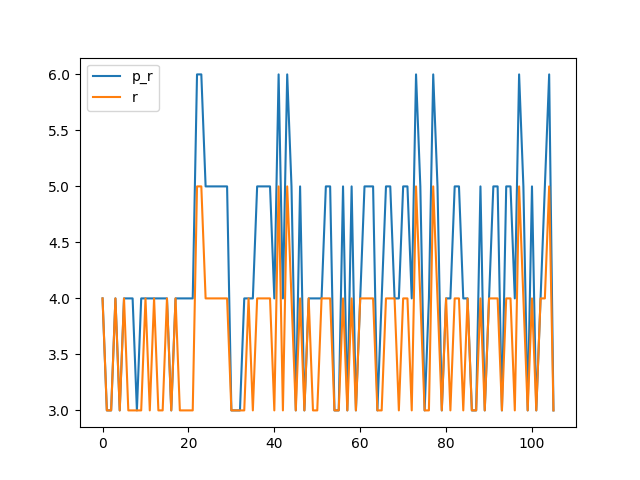
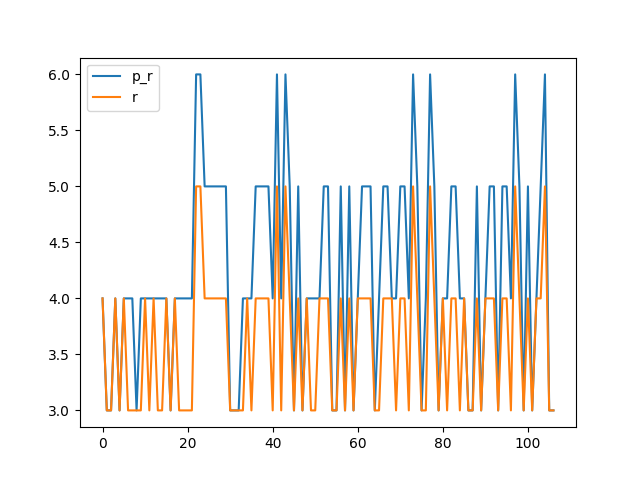
0x006A

diff --git a/benchmark.md b/benchmark.md
@@ -210,16 +210,18 @@ Synthesising 0x0068 pexact:406 r=6 exact:448 r=5
 
 Synthesising 0x0069 pexact:256 r=3 exact:256 r=3
 
+Synthesising 0x006A pexact:224 r=3 exact:224 r=3
+
 ```mermaid
 xychart-beta
     title "Comparison powertwoexact twoexact"
-    x-axis [0, 1, 2, 3, 4, 5, 6, 7, 8, 9, 10, 11, 12, 13, 14, 15, 16, 17, 18, 19, 20, 21, 22, 23, 24, 25, 26, 27, 28, 29, 30, 31, 32, 33, 34, 35, 36, 37, 38, 39, 40, 41, 42, 43, 44, 45, 46, 47, 48, 49, 50, 51, 52, 53, 54, 55, 56, 57, 58, 59, 60, 61, 62, 63, 64, 65, 66, 67, 68, 69, 70, 71, 72, 73, 74, 75, 76, 77, 78, 79, 80, 81, 82, 83, 84, 85, 86, 87, 88, 89, 90, 91, 92, 93, 94, 95, 96, 97, 98, 99, 100, 101, 102, 103, 104, 105]
+    x-axis [0, 1, 2, 3, 4, 5, 6, 7, 8, 9, 10, 11, 12, 13, 14, 15, 16, 17, 18, 19, 20, 21, 22, 23, 24, 25, 26, 27, 28, 29, 30, 31, 32, 33, 34, 35, 36, 37, 38, 39, 40, 41, 42, 43, 44, 45, 46, 47, 48, 49, 50, 51, 52, 53, 54, 55, 56, 57, 58, 59, 60, 61, 62, 63, 64, 65, 66, 67, 68, 69, 70, 71, 72, 73, 74, 75, 76, 77, 78, 79, 80, 81, 82, 83, 84, 85, 86, 87, 88, 89, 90, 91, 92, 93, 94, 95, 96, 97, 98, 99, 100, 101, 102, 103, 104, 105, 106]
     y-axis "Switching Activity" 0-->472
-    line [96, 152, 152, 182, 152, 182, 208, 182, 152, 208, 182, 182, 182, 182, 182, 182, 152, 182, 208, 182, 208, 182, 406, 400, 336, 310, 310, 304, 310, 304, 224, 216, 152, 208, 182, 182, 336, 310, 310, 304, 208, 406, 182, 400, 310, 224, 304, 216, 182, 182, 182, 182, 310, 304, 224, 216, 310, 224, 304, 216, 280, 326, 326, 238, 152, 208, 336, 310, 182, 182, 310, 304, 208, 406, 310, 224, 182, 400, 304, 216, 182, 182, 310, 304, 182, 182, 224, 216, 310, 224, 280, 326, 304, 216, 326, 238, 208, 406, 310, 224, 310, 224, 280, 326, 406, 256]
-    line [192, 152, 152, 312, 152, 352, 224, 192, 192, 224, 352, 216, 320, 216, 216, 352, 152, 326, 224, 216, 224, 192, 464, 448, 352, 344, 344, 320, 336, 352, 224, 216, 192, 224, 318, 192, 352, 344, 344, 312, 224, 448, 192, 440, 344, 224, 312, 216, 320, 216, 216, 280, 344, 312, 224, 216, 344, 224, 320, 216, 344, 336, 344, 288, 152, 224, 352, 336, 320, 192, 344, 320, 224, 472, 336, 224, 192, 448, 312, 216, 248, 192, 320, 352, 216, 192, 224, 216, 320, 224, 352, 344, 320, 216, 336, 272, 224, 472, 344, 224, 344, 224, 344, 336, 448, 256]
-    line [249.26415094339623, 249.26415094339623, 249.26415094339623, 249.26415094339623, 249.26415094339623, 249.26415094339623, 249.26415094339623, 249.26415094339623, 249.26415094339623, 249.26415094339623, 249.26415094339623, 249.26415094339623, 249.26415094339623, 249.26415094339623, 249.26415094339623, 249.26415094339623, 249.26415094339623, 249.26415094339623, 249.26415094339623, 249.26415094339623, 249.26415094339623, 249.26415094339623, 249.26415094339623, 249.26415094339623, 249.26415094339623, 249.26415094339623, 249.26415094339623, 249.26415094339623, 249.26415094339623, 249.26415094339623, 249.26415094339623, 249.26415094339623, 249.26415094339623, 249.26415094339623, 249.26415094339623, 249.26415094339623, 249.26415094339623, 249.26415094339623, 249.26415094339623, 249.26415094339623, 249.26415094339623, 249.26415094339623, 249.26415094339623, 249.26415094339623, 249.26415094339623, 249.26415094339623, 249.26415094339623, 249.26415094339623, 249.26415094339623, 249.26415094339623, 249.26415094339623, 249.26415094339623, 249.26415094339623, 249.26415094339623, 249.26415094339623, 249.26415094339623, 249.26415094339623, 249.26415094339623, 249.26415094339623, 249.26415094339623, 249.26415094339623, 249.26415094339623, 249.26415094339623, 249.26415094339623, 249.26415094339623, 249.26415094339623, 249.26415094339623, 249.26415094339623, 249.26415094339623, 249.26415094339623, 249.26415094339623, 249.26415094339623, 249.26415094339623, 249.26415094339623, 249.26415094339623, 249.26415094339623, 249.26415094339623, 249.26415094339623, 249.26415094339623, 249.26415094339623, 249.26415094339623, 249.26415094339623, 249.26415094339623, 249.26415094339623, 249.26415094339623, 249.26415094339623, 249.26415094339623, 249.26415094339623, 249.26415094339623, 249.26415094339623, 249.26415094339623, 249.26415094339623, 249.26415094339623, 249.26415094339623, 249.26415094339623, 249.26415094339623, 249.26415094339623, 249.26415094339623, 249.26415094339623, 249.26415094339623, 249.26415094339623, 249.26415094339623, 249.26415094339623, 249.26415094339623, 249.26415094339623, 249.26415094339623]
-    line [282.9811320754717, 282.9811320754717, 282.9811320754717, 282.9811320754717, 282.9811320754717, 282.9811320754717, 282.9811320754717, 282.9811320754717, 282.9811320754717, 282.9811320754717, 282.9811320754717, 282.9811320754717, 282.9811320754717, 282.9811320754717, 282.9811320754717, 282.9811320754717, 282.9811320754717, 282.9811320754717, 282.9811320754717, 282.9811320754717, 282.9811320754717, 282.9811320754717, 282.9811320754717, 282.9811320754717, 282.9811320754717, 282.9811320754717, 282.9811320754717, 282.9811320754717, 282.9811320754717, 282.9811320754717, 282.9811320754717, 282.9811320754717, 282.9811320754717, 282.9811320754717, 282.9811320754717, 282.9811320754717, 282.9811320754717, 282.9811320754717, 282.9811320754717, 282.9811320754717, 282.9811320754717, 282.9811320754717, 282.9811320754717, 282.9811320754717, 282.9811320754717, 282.9811320754717, 282.9811320754717, 282.9811320754717, 282.9811320754717, 282.9811320754717, 282.9811320754717, 282.9811320754717, 282.9811320754717, 282.9811320754717, 282.9811320754717, 282.9811320754717, 282.9811320754717, 282.9811320754717, 282.9811320754717, 282.9811320754717, 282.9811320754717, 282.9811320754717, 282.9811320754717, 282.9811320754717, 282.9811320754717, 282.9811320754717, 282.9811320754717, 282.9811320754717, 282.9811320754717, 282.9811320754717, 282.9811320754717, 282.9811320754717, 282.9811320754717, 282.9811320754717, 282.9811320754717, 282.9811320754717, 282.9811320754717, 282.9811320754717, 282.9811320754717, 282.9811320754717, 282.9811320754717, 282.9811320754717, 282.9811320754717, 282.9811320754717, 282.9811320754717, 282.9811320754717, 282.9811320754717, 282.9811320754717, 282.9811320754717, 282.9811320754717, 282.9811320754717, 282.9811320754717, 282.9811320754717, 282.9811320754717, 282.9811320754717, 282.9811320754717, 282.9811320754717, 282.9811320754717, 282.9811320754717, 282.9811320754717, 282.9811320754717, 282.9811320754717, 282.9811320754717, 282.9811320754717, 282.9811320754717, 282.9811320754717]
-    bar [80, 60, 60, 80, 60, 80, 80, 80, 60, 80, 80, 80, 80, 80, 80, 80, 60, 80, 80, 80, 80, 80, 120, 120, 100, 100, 100, 100, 100, 100, 60, 60, 60, 80, 80, 80, 100, 100, 100, 100, 80, 120, 80, 120, 100, 60, 100, 60, 80, 80, 80, 80, 100, 100, 60, 60, 100, 60, 100, 60, 80, 100, 100, 100, 60, 80, 100, 100, 80, 80, 100, 100, 80, 120, 100, 60, 80, 120, 100, 60, 80, 80, 100, 100, 80, 80, 60, 60, 100, 60, 80, 100, 100, 60, 100, 100, 80, 120, 100, 60, 100, 60, 80, 100, 120, 60]
-    bar [80, 60, 60, 80, 60, 80, 60, 60, 60, 60, 80, 60, 80, 60, 60, 80, 60, 80, 60, 60, 60, 60, 100, 100, 80, 80, 80, 80, 80, 80, 60, 60, 60, 60, 80, 60, 80, 80, 80, 80, 60, 100, 60, 100, 80, 60, 80, 60, 80, 60, 60, 80, 80, 80, 60, 60, 80, 60, 80, 60, 80, 80, 80, 80, 60, 60, 80, 80, 80, 60, 80, 80, 60, 100, 80, 60, 60, 100, 80, 60, 80, 60, 80, 80, 60, 80, 60, 60, 80, 60, 80, 80, 80, 60, 80, 80, 60, 100, 80, 60, 80, 60, 80, 80, 100, 60]
+    line [96, 152, 152, 182, 152, 182, 208, 182, 152, 208, 182, 182, 182, 182, 182, 182, 152, 182, 208, 182, 208, 182, 406, 400, 336, 310, 310, 304, 310, 304, 224, 216, 152, 208, 182, 182, 336, 310, 310, 304, 208, 406, 182, 400, 310, 224, 304, 216, 182, 182, 182, 182, 310, 304, 224, 216, 310, 224, 304, 216, 280, 326, 326, 238, 152, 208, 336, 310, 182, 182, 310, 304, 208, 406, 310, 224, 182, 400, 304, 216, 182, 182, 310, 304, 182, 182, 224, 216, 310, 224, 280, 326, 304, 216, 326, 238, 208, 406, 310, 224, 310, 224, 280, 326, 406, 256, 224]
+    line [192, 152, 152, 312, 152, 352, 224, 192, 192, 224, 352, 216, 320, 216, 216, 352, 152, 326, 224, 216, 224, 192, 464, 448, 352, 344, 344, 320, 336, 352, 224, 216, 192, 224, 318, 192, 352, 344, 344, 312, 224, 448, 192, 440, 344, 224, 312, 216, 320, 216, 216, 280, 344, 312, 224, 216, 344, 224, 320, 216, 344, 336, 344, 288, 152, 224, 352, 336, 320, 192, 344, 320, 224, 472, 336, 224, 192, 448, 312, 216, 248, 192, 320, 352, 216, 192, 224, 216, 320, 224, 352, 344, 320, 216, 336, 272, 224, 472, 344, 224, 344, 224, 344, 336, 448, 256, 224]
+    line [249.02803738317758, 249.02803738317758, 249.02803738317758, 249.02803738317758, 249.02803738317758, 249.02803738317758, 249.02803738317758, 249.02803738317758, 249.02803738317758, 249.02803738317758, 249.02803738317758, 249.02803738317758, 249.02803738317758, 249.02803738317758, 249.02803738317758, 249.02803738317758, 249.02803738317758, 249.02803738317758, 249.02803738317758, 249.02803738317758, 249.02803738317758, 249.02803738317758, 249.02803738317758, 249.02803738317758, 249.02803738317758, 249.02803738317758, 249.02803738317758, 249.02803738317758, 249.02803738317758, 249.02803738317758, 249.02803738317758, 249.02803738317758, 249.02803738317758, 249.02803738317758, 249.02803738317758, 249.02803738317758, 249.02803738317758, 249.02803738317758, 249.02803738317758, 249.02803738317758, 249.02803738317758, 249.02803738317758, 249.02803738317758, 249.02803738317758, 249.02803738317758, 249.02803738317758, 249.02803738317758, 249.02803738317758, 249.02803738317758, 249.02803738317758, 249.02803738317758, 249.02803738317758, 249.02803738317758, 249.02803738317758, 249.02803738317758, 249.02803738317758, 249.02803738317758, 249.02803738317758, 249.02803738317758, 249.02803738317758, 249.02803738317758, 249.02803738317758, 249.02803738317758, 249.02803738317758, 249.02803738317758, 249.02803738317758, 249.02803738317758, 249.02803738317758, 249.02803738317758, 249.02803738317758, 249.02803738317758, 249.02803738317758, 249.02803738317758, 249.02803738317758, 249.02803738317758, 249.02803738317758, 249.02803738317758, 249.02803738317758, 249.02803738317758, 249.02803738317758, 249.02803738317758, 249.02803738317758, 249.02803738317758, 249.02803738317758, 249.02803738317758, 249.02803738317758, 249.02803738317758, 249.02803738317758, 249.02803738317758, 249.02803738317758, 249.02803738317758, 249.02803738317758, 249.02803738317758, 249.02803738317758, 249.02803738317758, 249.02803738317758, 249.02803738317758, 249.02803738317758, 249.02803738317758, 249.02803738317758, 249.02803738317758, 249.02803738317758, 249.02803738317758, 249.02803738317758, 249.02803738317758, 249.02803738317758, 249.02803738317758]
+    line [282.4299065420561, 282.4299065420561, 282.4299065420561, 282.4299065420561, 282.4299065420561, 282.4299065420561, 282.4299065420561, 282.4299065420561, 282.4299065420561, 282.4299065420561, 282.4299065420561, 282.4299065420561, 282.4299065420561, 282.4299065420561, 282.4299065420561, 282.4299065420561, 282.4299065420561, 282.4299065420561, 282.4299065420561, 282.4299065420561, 282.4299065420561, 282.4299065420561, 282.4299065420561, 282.4299065420561, 282.4299065420561, 282.4299065420561, 282.4299065420561, 282.4299065420561, 282.4299065420561, 282.4299065420561, 282.4299065420561, 282.4299065420561, 282.4299065420561, 282.4299065420561, 282.4299065420561, 282.4299065420561, 282.4299065420561, 282.4299065420561, 282.4299065420561, 282.4299065420561, 282.4299065420561, 282.4299065420561, 282.4299065420561, 282.4299065420561, 282.4299065420561, 282.4299065420561, 282.4299065420561, 282.4299065420561, 282.4299065420561, 282.4299065420561, 282.4299065420561, 282.4299065420561, 282.4299065420561, 282.4299065420561, 282.4299065420561, 282.4299065420561, 282.4299065420561, 282.4299065420561, 282.4299065420561, 282.4299065420561, 282.4299065420561, 282.4299065420561, 282.4299065420561, 282.4299065420561, 282.4299065420561, 282.4299065420561, 282.4299065420561, 282.4299065420561, 282.4299065420561, 282.4299065420561, 282.4299065420561, 282.4299065420561, 282.4299065420561, 282.4299065420561, 282.4299065420561, 282.4299065420561, 282.4299065420561, 282.4299065420561, 282.4299065420561, 282.4299065420561, 282.4299065420561, 282.4299065420561, 282.4299065420561, 282.4299065420561, 282.4299065420561, 282.4299065420561, 282.4299065420561, 282.4299065420561, 282.4299065420561, 282.4299065420561, 282.4299065420561, 282.4299065420561, 282.4299065420561, 282.4299065420561, 282.4299065420561, 282.4299065420561, 282.4299065420561, 282.4299065420561, 282.4299065420561, 282.4299065420561, 282.4299065420561, 282.4299065420561, 282.4299065420561, 282.4299065420561, 282.4299065420561, 282.4299065420561, 282.4299065420561]
+    bar [80, 60, 60, 80, 60, 80, 80, 80, 60, 80, 80, 80, 80, 80, 80, 80, 60, 80, 80, 80, 80, 80, 120, 120, 100, 100, 100, 100, 100, 100, 60, 60, 60, 80, 80, 80, 100, 100, 100, 100, 80, 120, 80, 120, 100, 60, 100, 60, 80, 80, 80, 80, 100, 100, 60, 60, 100, 60, 100, 60, 80, 100, 100, 100, 60, 80, 100, 100, 80, 80, 100, 100, 80, 120, 100, 60, 80, 120, 100, 60, 80, 80, 100, 100, 80, 80, 60, 60, 100, 60, 80, 100, 100, 60, 100, 100, 80, 120, 100, 60, 100, 60, 80, 100, 120, 60, 60]
+    bar [80, 60, 60, 80, 60, 80, 60, 60, 60, 60, 80, 60, 80, 60, 60, 80, 60, 80, 60, 60, 60, 60, 100, 100, 80, 80, 80, 80, 80, 80, 60, 60, 60, 60, 80, 60, 80, 80, 80, 80, 60, 100, 60, 100, 80, 60, 80, 60, 80, 60, 60, 80, 80, 80, 60, 60, 80, 60, 80, 60, 80, 80, 80, 80, 60, 60, 80, 80, 80, 60, 80, 80, 60, 100, 80, 60, 60, 100, 80, 60, 80, 60, 80, 80, 60, 80, 60, 60, 80, 60, 80, 80, 80, 60, 80, 80, 60, 100, 80, 60, 80, 60, 80, 80, 100, 60, 60]
 ```
 
